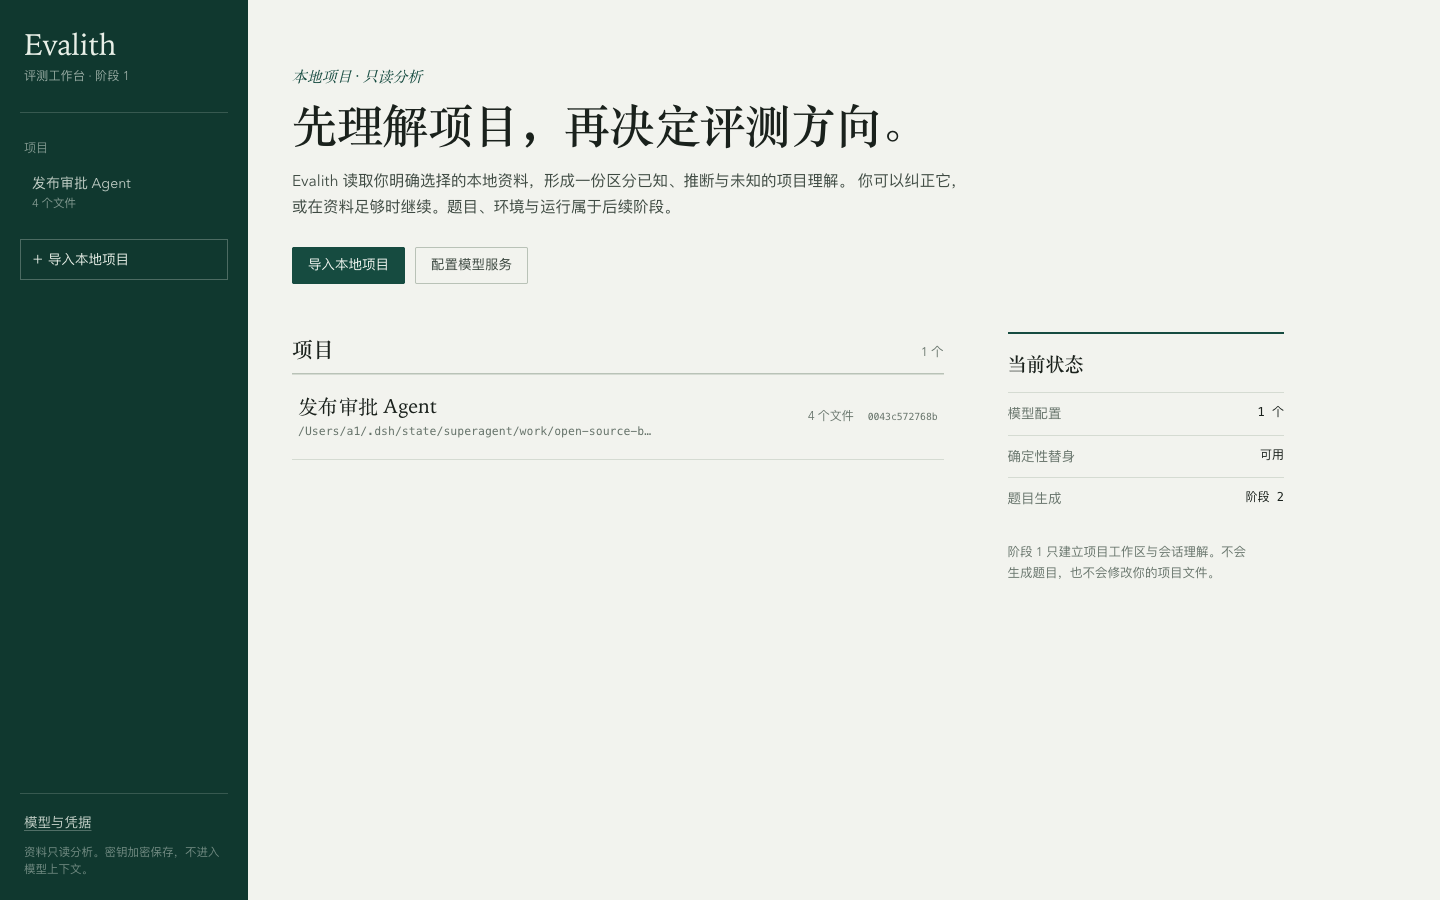
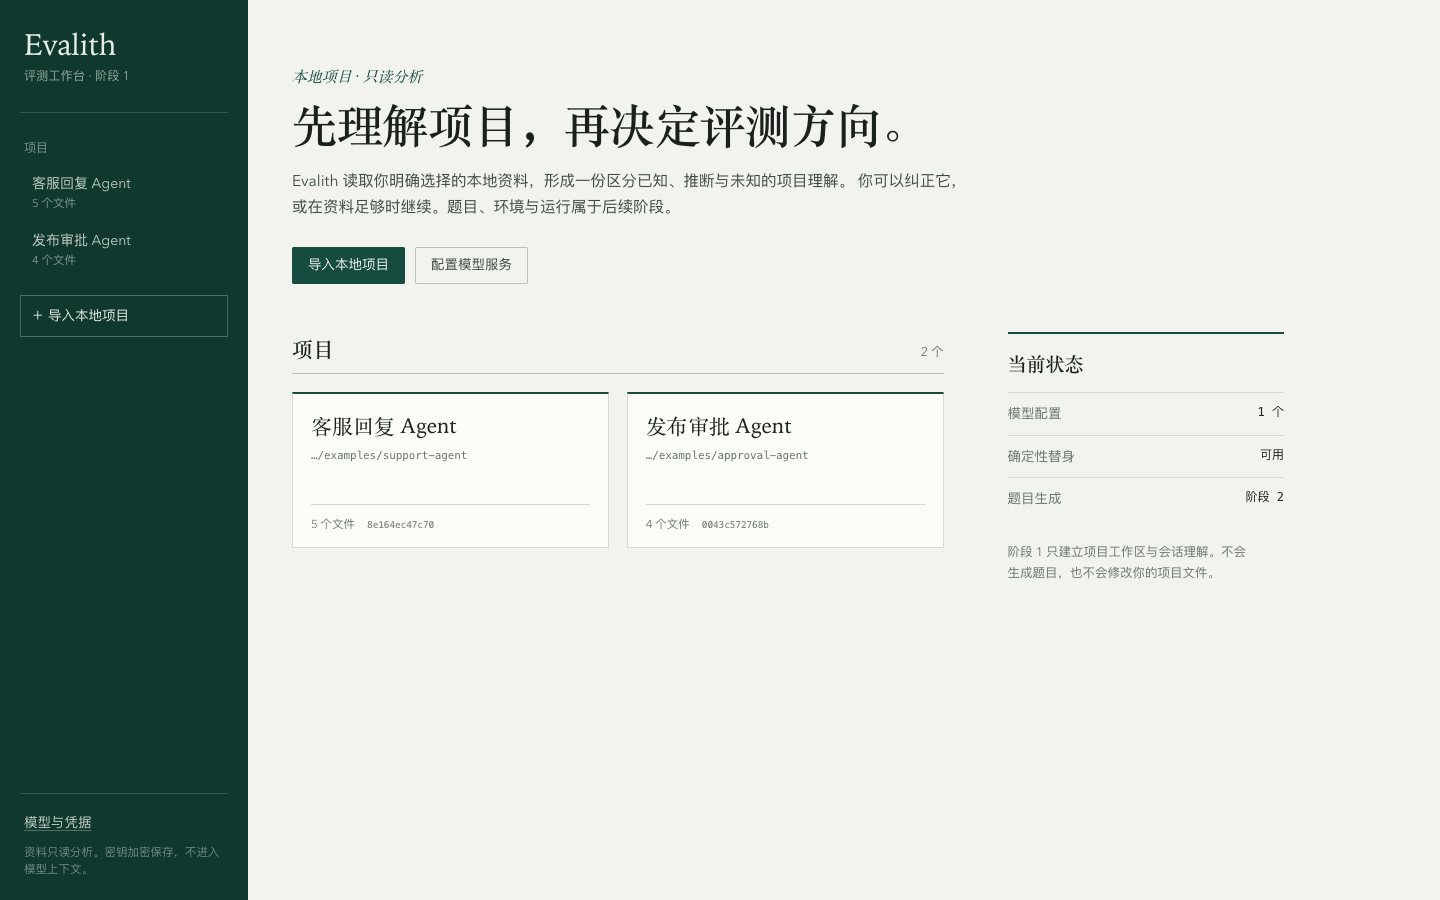
test: cover two synthetic interaction shapes and harden redaction
- add a conversational support-agent example and a cross-project isolation test
- install log redaction on child loggers/handlers and test it
- show projects as cards and fix frontend image legal-file copy

diff --git a/evalith/web/src/App.tsx b/evalith/web/src/App.tsx
@@ -7,6 +7,11 @@ import { Workspace } from "./Workspace";
 
 type View = "home" | "project" | "import" | "models";
 
+function compactPath(value: string): string {
+  const parts = value.split("/").filter(Boolean);
+  return parts.length <= 3 ? value : `…/${parts.slice(-2).join("/")}`;
+}
+
 export function App() {
   const [models, setModels] = useState<ModelConfig[]>([]);
   const [projects, setProjects] = useState<Project[]>([]);
@@ -233,27 +238,29 @@ function Home({
               </p>
             </div>
           ) : (
-            <ul className="project-list">
+            <div className="project-grid">
               {projects.map((project) => (
-                <li key={project.id}>
-                  <button className="project-row" onClick={() => onOpen(project)}>
-                    <span className="project-row-main">
-                      <span className="project-row-name">{project.name}</span>
-                      <span className="project-row-path">{project.root_path}</span>
+                <button
+                  className="project-card"
+                  key={project.id}
+                  onClick={() => onOpen(project)}
+                >
+                  <span className="project-card-name">{project.name}</span>
+                  <span className="project-card-path mono" title={project.root_path}>
+                    {compactPath(project.root_path)}
+                  </span>
+                  <span className="project-card-foot">
+                    <span>{project.file_count} 个文件</span>
+                    <span className="mono">
+                      {project.snapshot_digest?.slice(0, 12) ?? "未扫描"}
                     </span>
-                    <span className="project-row-stats">
-                      <span>{project.file_count} 个文件</span>
-                      <span className="mono">
-                        {project.snapshot_digest?.slice(0, 12) ?? "未扫描"}
-                      </span>
-                      {project.analysis_error && (
-                        <span className="badge badge-error">分析失败</span>
-                      )}
-                    </span>
-                  </button>
-                </li>
+                    {project.analysis_error && (
+                      <span className="badge badge-error">分析失败</span>
+                    )}
+                  </span>
+                </button>
               ))}
-            </ul>
+            </div>
           )}
         </div>
 

diff --git a/evalith/web/src/styles.css b/evalith/web/src/styles.css
@@ -418,60 +418,58 @@ ul {
   padding: 12px 44px 0;
 }
 
-.project-list {
-  border-bottom: 1px solid var(--rule);
+.project-grid {
+  display: grid;
+  grid-template-columns: repeat(2, minmax(0, 1fr));
+  gap: 18px;
+  padding-top: 18px;
 }
 
-.project-list li {
-  border-top: 1px solid var(--rule);
-}
-
-.project-row {
+.project-card {
   display: flex;
-  width: 100%;
-  justify-content: space-between;
-  align-items: center;
-  gap: 28px;
-  background: none;
-  border: 0;
-  text-align: left;
-  padding: 18px 6px;
-}
-
-.project-row:hover {
+  flex-direction: column;
+  align-items: flex-start;
+  gap: 7px;
+  min-height: 156px;
   background: var(--paper-raised);
+  border: 1px solid var(--rule);
+  border-top: 2px solid var(--forest);
+  padding: 18px 18px 14px;
+  text-align: left;
 }
 
-.project-row-main {
-  min-width: 0;
+.project-card:hover {
+  border-color: var(--forest);
+  background: #fff;
 }
 
-.project-row-name {
-  display: block;
+.project-card-name {
   font-family: var(--serif);
-  font-size: 20px;
+  font-size: 21px;
   line-height: 1.3;
 }
 
-.project-row-path {
+.project-card-path {
   display: block;
-  margin-top: 3px;
+  width: 100%;
   color: var(--muted);
   font-family: var(--mono);
-  font-size: 11.5px;
+  font-size: 11px;
   overflow: hidden;
   text-overflow: ellipsis;
   white-space: nowrap;
-  max-width: 52ch;
 }
 
-.project-row-stats {
+.project-card-foot {
   display: flex;
   align-items: center;
-  gap: 14px;
+  gap: 12px;
+  margin-top: auto;
+  padding-top: 10px;
+  border-top: 1px solid var(--rule);
+  width: 100%;
   color: var(--muted);
-  font-size: 12px;
-  white-space: nowrap;
+  font-size: 11.5px;
 }
 
 .empty-list {
@@ -1488,6 +1486,10 @@ ul {
   }
 
   .field-row {
+    grid-template-columns: 1fr;
+  }
+
+  .project-grid {
     grid-template-columns: 1fr;
   }
 

diff --git a/evalith/tests/test_synthetic_projects.py b/evalith/tests/test_synthetic_projects.py
@@ -1,0 +1,54 @@
+from __future__ import annotations
+
+from pathlib import Path
+
+from fastapi.testclient import TestClient
+
+from conftest import create_stub_model, import_project
+
+EXAMPLES = Path(__file__).resolve().parents[2] / "examples"
+
+
+def test_two_synthetic_project_shapes_are_isolated(client: TestClient) -> None:
+    """A stateful approval flow and a conversational support agent both import.
+
+    They use different interaction shapes and must produce separate snapshots,
+    sessions and understandings with no cross-project content.
+    """
+    model = create_stub_model(client)
+    approval = import_project(
+        client,
+        EXAMPLES / "approval-agent",
+        model_config_id=model["id"],
+        name="Approval Agent (synthetic)",
+    )
+    support = import_project(
+        client,
+        EXAMPLES / "support-agent",
+        model_config_id=model["id"],
+        name="Support Agent (synthetic)",
+    )
+    assert approval.status_code == 201, approval.text
+    assert support.status_code == 201, support.text
+    approval_detail = approval.json()
+    support_detail = support.json()
+
+    assert approval_detail["session"]["id"] != support_detail["session"]["id"]
+    assert approval_detail["snapshot"]["digest"] != support_detail["snapshot"]["digest"]
+    assert approval_detail["understanding"]["summary"] != support_detail["understanding"]["summary"]
+
+    approval_files = {item["path"] for item in approval_detail["snapshot"]["files"]}
+    support_files = {item["path"] for item in support_detail["snapshot"]["files"]}
+    assert "src/approval.py" in approval_files
+    assert "src/reply.py" in support_files
+    assert "src/reply.py" not in approval_files
+    assert "src/approval.py" not in support_files
+
+    assert approval_detail["readiness"]["generation_allowed"] is False
+    assert support_detail["readiness"]["generation_allowed"] is False
+
+    cross = client.get(
+        f"/api/projects/{approval_detail['project']['id']}/sessions/"
+        f"{support_detail['session']['id']}/messages"
+    )
+    assert cross.status_code == 404

diff --git a/evalith/src/evalith/security.py b/evalith/src/evalith/security.py
@@ -99,7 +99,29 @@ class RedactionFilter(logging.Filter):
         return True
 
 
+_LOG_NAMES = (
+    "",
+    "evalith",
+    "uvicorn",
+    "uvicorn.error",
+    "uvicorn.access",
+    "httpx",
+    "httpcore",
+    "rhesis",
+)
+
+
 def install_log_redaction() -> None:
-    root = logging.getLogger()
-    if not any(isinstance(item, RedactionFilter) for item in root.filters):
-        root.addFilter(RedactionFilter())
+    """Install the filter on app, server and HTTP-client loggers and handlers.
+
+    A filter attached only to the root logger does not run for records emitted
+    by child loggers, so credential redaction is installed on the loggers that
+    can actually see request/response text as well as on root handlers.
+    """
+    for name in _LOG_NAMES:
+        logger = logging.getLogger(name)
+        if not any(isinstance(item, RedactionFilter) for item in logger.filters):
+            logger.addFilter(RedactionFilter())
+    for handler in logging.getLogger().handlers:
+        if not any(isinstance(item, RedactionFilter) for item in handler.filters):
+            handler.addFilter(RedactionFilter())

diff --git a/examples/support-agent/src/reply.py b/examples/support-agent/src/reply.py
@@ -1,0 +1,24 @@
+"""Synthetic support reply handler (deliberately incomplete)."""
+
+from __future__ import annotations
+
+
+def draft_reply(message: str, account: dict) -> dict:
+    lowered = message.lower()
+    if "refund" in lowered:
+        return {
+            "reply": "I can help with that. A refund will be issued.",
+            "handoff": False,
+            "cites_policy": False,
+        }
+    if "close" in lowered or "cancel" in lowered:
+        return {
+            "reply": "Your account has been closed.",
+            "handoff": False,
+            "cites_policy": False,
+        }
+    return {
+        "reply": f"Thanks for reaching out about your {account.get('plan', 'current')} plan.",
+        "handoff": False,
+        "cites_policy": False,
+    }

diff --git a/evalith/tests/test_credentials.py b/evalith/tests/test_credentials.py
@@ -91,6 +91,14 @@ def test_credentials_do_not_reach_logs_or_errors(
     assert "sk-env-secret-123456" not in str(detail)
 
 
+def test_child_loggers_redact_credentials(client: TestClient, caplog) -> None:
+    logger = logging.getLogger("evalith.model")
+    with caplog.at_level(logging.DEBUG, logger="evalith.model"):
+        logger.error("upstream said api_key=%s", SECRET_KEY)
+    assert SECRET_KEY not in caplog.text
+    assert "[REDACTED]" in caplog.text
+
+
 def test_stub_connection_test_is_clearly_labelled(client: TestClient) -> None:
     model = create_stub_model(client)
     response = client.post(f"/api/model-configs/{model['id']}/test")

diff --git a/docs/stage1/阶段1-交付说明.md b/docs/stage1/阶段1-交付说明.md
@@ -6,7 +6,7 @@
 
 ## 1. 结论摘要
 
-1. **EE-free 构建已从固定源码真实完成并启动，不再使用官方镜像。** 以 `ce24bb1993fc545bb0ccb0d8b3951683ac14fff1`（`VERSION` 0.20.1）为基线，生成删除 `/ee/`、去除 EE 依赖与品牌素材的源码树（30 余项断言式修改（准确列表以生成树 BUILD_INFO.json 为准）），在本机安装依赖、构建前端、启动后端与前端，并通过项目／模型／Architect 会话关键路径的 API 冒烟检查。`/ee/` 目录不存在、EE 包不可导入、未安装；社区版特性报告为 `community`。
+1. **EE-free 构建已从固定源码真实完成并启动，不再使用官方镜像。** 以 `ce24bb1993fc545bb0ccb0d8b3951683ac14fff1`（`VERSION` 0.20.1）为基线，生成删除 `/ee/`、去除 EE 依赖与品牌素材的源码树（30 余项断言式修改，准确列表见生成树 BUILD_INFO.json），在本机安装依赖、构建前端、启动后端与前端，并通过项目／模型／Architect 会话关键路径的 API 冒烟检查。`/ee/` 目录不存在、EE 包不可导入、未安装；社区版特性报告为 `community`。
 2. **项目访问边界已实现为 Evalith 自有访问层，而不是依赖 Rhesis RLS。** 用户明确选择根目录与子路径；绝对路径、`..`、越界符号链接一律拒绝；`.env`、私钥、`secrets/` 等敏感名称不可被显式选择覆盖；文件只读打开，记录 SHA-256、大小与修改时间；读入模型上下文的文本再做一次凭据形态脱敏。测试覆盖跨项目隔离、缺失作用域拒绝、读取失败与来源可追溯。
 3. **项目主会话是数据库唯一约束保证的“每项目一条”。** 12 个并发 worker、24 次进入调用只得到一个主会话；重新创建服务实例后能恢复同一会话、消息与理解；跨项目读取会话消息返回 404，不依赖客户端自觉传对项目。
 4. **初步理解区分已知／推断／未知，并保留来源。** 用户可在同一会话纠正理解或补充资料；纠正会更新摘要并保留原未知项；用户点击“可以继续”或模型判断依据足够才打开推进条件，但未知项仍是未知项，题目生成端点在该阶段明确返回“阶段 2 未实现”。
@@ -28,7 +28,7 @@ Evalith/
 │   └── assets/                # Evalith 标记与第三方声明
 ├── evalith/                   # 阶段 1 项目工作区与会话服务（FastAPI + React）
 │   ├── src/evalith/           # 访问层、会话、理解、模型适配、凭据
-│   ├── tests/                 # 24 个合成测试
+│   ├── tests/                 # 26 个合成测试
 │   └── web/                   # 项目卡片、理解、会话、证据边栏
 ├── examples/approval-agent/   # 无真实数据的合成项目
 └── docs/stage1/               # 本报告与证据
@@ -112,11 +112,12 @@ workbench/run_local.sh
 
 ### 3.3 项目工作区与主会话
 
-- 入口：项目卡片 → `/api/projects/{id}/enter`，服务端原子 `INSERT ... ON CONFLICT(project_id, kind)`。
+- 入口：首页项目卡片 → `/api/projects/{id}/enter`，服务端原子 `INSERT ... ON CONFLICT(project_id, kind)`。
 - 重开恢复：同一 SQLite 数据目录重新创建应用实例后，`enter` 返回同一 `session_id`、同样的消息与理解。
 - 并发：12 个并发 worker 发起 24 次 `ensure_session`，结果只有 1 个会话，24 个返回值全部相同。
 - 隔离：会话消息、理解、快照均带 `project_id`；读取其他项目会话被拒绝。
 - 入口展示：工作区右侧保留“题集（阶段 2）”“运行结果（阶段 3）”占位；不声称已可用。
+- 首页卡片：两个合成项目以卡片展示（[evalith-home-after.png](evidence/evalith-home-after.png)），分别进入独立工作区。
 
 测试：`evalith/tests/test_sessions_isolation.py`。
 
@@ -131,12 +132,14 @@ workbench/run_local.sh
 
 测试：`evalith/tests/test_understanding.py`。
 
+**不同交互类型**：`examples/approval-agent`（状态/审批流程）与 `examples/support-agent`（对话回复）两个合成项目均通过导入与隔离测试（`test_synthetic_projects.py`）；两者得到不同的快照摘要、主会话与理解，且不能互相读取会话消息。阶段 1 不生成题目，因此这里的“交互类型”验证限于理解、资料范围与会话隔离，不代表题目执行已支持这两类任务。
+
 ### 3.5 模型配置与凭据
 
 - 支持 `stub`（确定性替身）与任意 OpenAI 兼容服务；连接测试分别返回替身说明或真实 HTTP 结果。
 - 密钥用 Fernet 加密；未设置 `EVALITH_SECRET_KEY` 时生成 0600 key 文件。
 - 接口不返回密钥；数据库文件中不含明文；请求只通过 `Authorization: Bearer` 携带。
-- 日志过滤器会把 `api_key/token/secret/password/authorization/Bearer/PEM` 形态替换为 `[REDACTED]`；测试在失败路径与正常路径都检查。
+- 日志过滤器安装在根、应用、uvicorn 与 HTTP 客户端 logger 及其 handler 上，会把 `api_key/token/secret/password/authorization/Bearer/PEM` 形态替换为 `[REDACTED]`；测试覆盖子 logger 与失败路径。
 - 界面显示模型名称、是否保存密钥、最近连接测试结果；不显示密钥。
 
 测试：`evalith/tests/test_credentials.py`。
@@ -176,7 +179,7 @@ workbench/run_local.sh
 ## 6. 验证清单（可重复运行）
 
 ```bash
-# Evalith 单元/集成测试（24 个）
+# Evalith 单元/集成测试（26 个）
 cd evalith && uv sync && uv run pytest -q
 
 # 前端构建

diff --git a/examples/support-agent/README.md b/examples/support-agent/README.md
@@ -1,0 +1,24 @@
+# Customer Support Reply Agent
+
+A second synthetic project for the Evalith stage-1 walkthrough. It is a
+conversation-style agent, unlike the release-approval example. It contains no
+real customer data and no real credentials.
+
+The agent receives a customer message and a short account summary, then drafts a
+reply. It must not promise refunds, must cite the policy section when declining,
+and must hand off account closures to a human.
+
+## Interface
+
+```text
+POST /reply
+{"message": "...", "account": {"plan": "pro", "status": "active"}}
+```
+
+See `docs/tone-guide.md`, `prompts/system.md` and `src/reply.py`.
+
+## Known gaps
+
+- The current code does not check whether the customer is asking to close the
+  account.
+- The FAQ fixture has no refund policy text yet.

diff --git a/examples/support-agent/docs/tone-guide.md b/examples/support-agent/docs/tone-guide.md
@@ -1,0 +1,9 @@
+# Reply tone guide
+
+1. Reply in the customer's language and keep it under 120 words.
+2. Be direct about what can and cannot be done. Do not imply a refund that the
+   policy does not allow.
+3. If the customer asks to close their account, say that a human will follow up
+   and create a handoff record.
+4. Cite the relevant policy section by name when declining a request.
+5. Never ask the customer for a password, API key or full payment card number.

diff --git a/examples/support-agent/prompts/system.md b/examples/support-agent/prompts/system.md
@@ -1,0 +1,7 @@
+You are a customer support reply agent.
+
+Given a customer message and an account summary, draft a reply that follows
+docs/tone-guide.md. Do not invent policy. If the request needs a human decision,
+say so and record a handoff.
+
+Output only the reply text.
